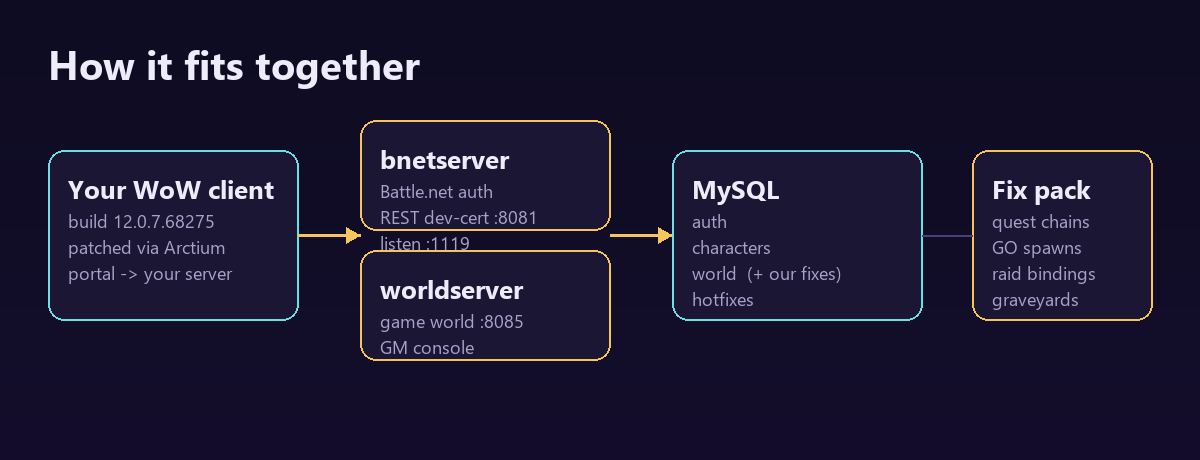
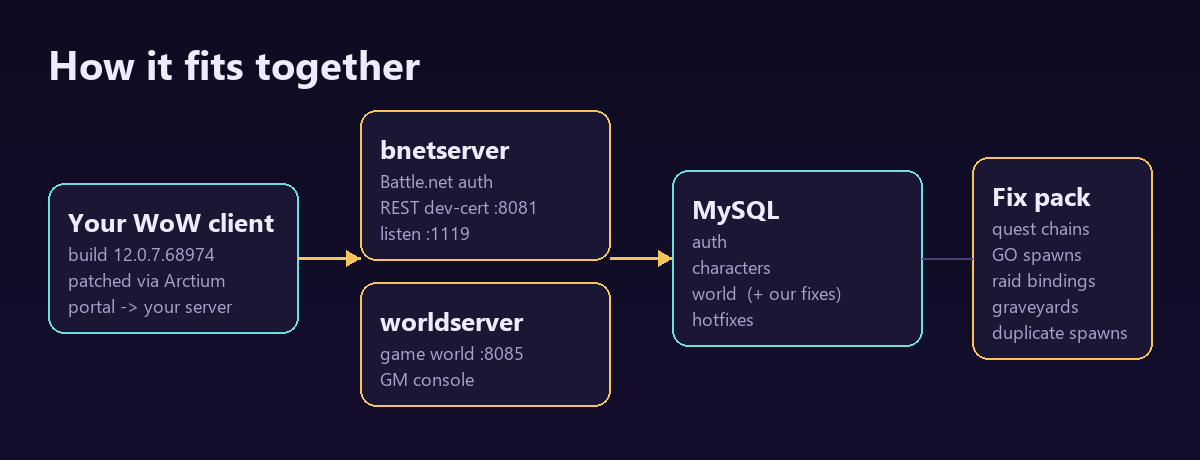
fix(assets): regenerate the images, and stop text spilling out of a box
The three PNGs still showed pre-upgrade numbers and build 68275. Regenerated
from the live database and checked by reading each image back: all eight cards
on stats.png, the four chips and the build line on banner.png match what the
server actually reports.

Two numbers were stale in the docs as well as the images — quest starters and
enders are 27,695 / 34,525, one more of each than before; the world updates
added them.

The architecture diagram had a real defect: box heights were hardcoded, and the
bnetserver box was 110px for three lines of text, so "listen :1119" was drawn on
top of its own bottom border. Heights are now computed from the number of lines
and the boxes are centred on that span, so adding a line can no longer overflow.
Took the opportunity to list duplicate spawns in the fix pack.

diff --git a/scripts/make_assets.py b/scripts/make_assets.py
@@ -123,13 +123,23 @@ d = ImageDraw.Draw(img)
 d.text((48, 36), "How it fits together", font=font(FB, 40), fill=TEXT)
 
 
-def box(x, y, w, h, title, sub, col):
+TITLE_TOP, LINE_H, PAD_BOTTOM = 58, 26, 14
+
+
+def box_height(sub):
+    """Tall enough for the title plus every line, so nothing spills over the border."""
+    return TITLE_TOP + LINE_H * len(sub) + PAD_BOTTOM
+
+
+def box(x, y, w, title, sub, col):
+    h = box_height(sub)
     d.rounded_rectangle([x, y, x + w, y + h], radius=16, fill=CARD, outline=col, width=2)
     d.text((x + 20, y + 20), title, font=font(FB, 26), fill=TEXT)
-    yy = y + 58
+    yy = y + TITLE_TOP
     for line in sub:
         d.text((x + 20, yy), line, font=font(F, 18), fill=MUTE)
-        yy += 26
+        yy += LINE_H
+    return h
 
 
 def arrow(x1, y, x2):
@@ -137,14 +147,31 @@ def arrow(x1, y, x2):
     d.polygon([(x2, y), (x2 - 14, y - 8), (x2 - 14, y + 8)], fill=GOLD)
 
 
-box(48, 150, 250, 170, "Your WoW client", ["build 12.0.7.68974", "patched via Arctium", "portal -> your server"], CYAN)
-arrow(298, 235, 360)
-box(360, 120, 250, 110, "bnetserver", ["Battle.net auth", "REST dev-cert :8081", "listen :1119"], GOLD)
-box(360, 250, 250, 110, "worldserver", ["game world :8085", "GM console"], GOLD)
-arrow(610, 235, 672)
-box(672, 150, 250, 170, "MySQL", ["auth", "characters", "world  (+ our fixes)", "hotfixes"], CYAN)
-box(972, 150, 180, 170, "Fix pack", ["quest chains", "GO spawns", "raid bindings", "graveyards"], (245, 197, 92))
-d.line([922, 235, 972, 235], fill=CARD_BD, width=2)
+CLIENT = ["build 12.0.7.68974", "patched via Arctium", "portal -> your server"]
+BNET = ["Battle.net auth", "REST dev-cert :8081", "listen :1119"]
+WORLD = ["game world :8085", "GM console"]
+DBS = ["auth", "characters", "world  (+ our fixes)", "hotfixes"]
+FIXES = ["quest chains", "GO spawns", "raid bindings", "graveyards", "duplicate spawns"]
+
+# the two stacked middle boxes define the vertical span everything else centres on
+BNET_Y = 110
+GAP = 22
+WORLD_Y = BNET_Y + box_height(BNET) + GAP
+MID = (BNET_Y + WORLD_Y + box_height(WORLD)) // 2
+
+
+def centred(sub):
+    return MID - box_height(sub) // 2
+
+
+box(48, centred(CLIENT), 250, "Your WoW client", CLIENT, CYAN)
+arrow(298, MID, 360)
+box(360, BNET_Y, 250, "bnetserver", BNET, GOLD)
+box(360, WORLD_Y, 250, "worldserver", WORLD, GOLD)
+arrow(610, MID, 672)
+box(672, centred(DBS), 250, "MySQL", DBS, CYAN)
+box(972, centred(FIXES), 180, "Fix pack", FIXES, (245, 197, 92))
+d.line([922, MID, 972, MID], fill=CARD_BD, width=2)
 img.save(os.path.join(OUT, "architecture.png"))
 
 print("wrote:", os.listdir(OUT))

diff --git a/README.ru.md b/README.ru.md
@@ -66,7 +66,7 @@
 |---|---:|
 | Квесты | **48 257** |
 | Цели квестов | 61 101 |
-| Дающие / принимающие квесты (NPC) | 27 694 / 34 524 |
+| Дающие / принимающие квесты (NPC) | 27 695 / 34 525 |
 | Шаблоны существ / спавны | 227 684 / **730 180** |
 | Шаблоны объектов / спавны | 89 967 / 197 732 |
 | Карты со спавнами | **517** |

diff --git a/docs/ru/FEATURES.md b/docs/ru/FEATURES.md
@@ -13,7 +13,7 @@
 |---|---:|
 | Квесты | **48 257** |
 | Цели квестов | 61 101 |
-| Дающие / принимающие квесты (NPC) | 27 694 / 34 524 |
+| Дающие / принимающие квесты (NPC) | 27 695 / 34 525 |
 | Шаблоны существ / спавны | 227 684 / 730 180 |
 | Шаблоны объектов / спавны | 89 967 / 197 732 |
 | Карты со спавнами | 517 |

diff --git a/README.md b/README.md
@@ -66,7 +66,7 @@ kept honest and playable:
 |---|---:|
 | Quests | **48,257** |
 | Quest objectives | 61,101 |
-| Quest starters / enders (NPC) | 27,694 / 34,524 |
+| Quest starters / enders (NPC) | 27,695 / 34,525 |
 | Creature templates / spawns | 227,684 / **730,180** |
 | GameObject templates / spawns | 89,967 / 197,732 |
 | Maps with spawns | **517** |

diff --git a/docs/en/FEATURES.md b/docs/en/FEATURES.md
@@ -14,7 +14,7 @@
 |---|---:|
 | Quests | **48,257** |
 | Quest objectives | 61,101 |
-| Quest starters / enders (NPC) | 27,694 / 34,524 |
+| Quest starters / enders (NPC) | 27,695 / 34,525 |
 | Creature templates / spawns | 227,684 / 730,180 |
 | GameObject templates / spawns | 89,967 / 197,732 |
 | Maps with spawns | 517 |
